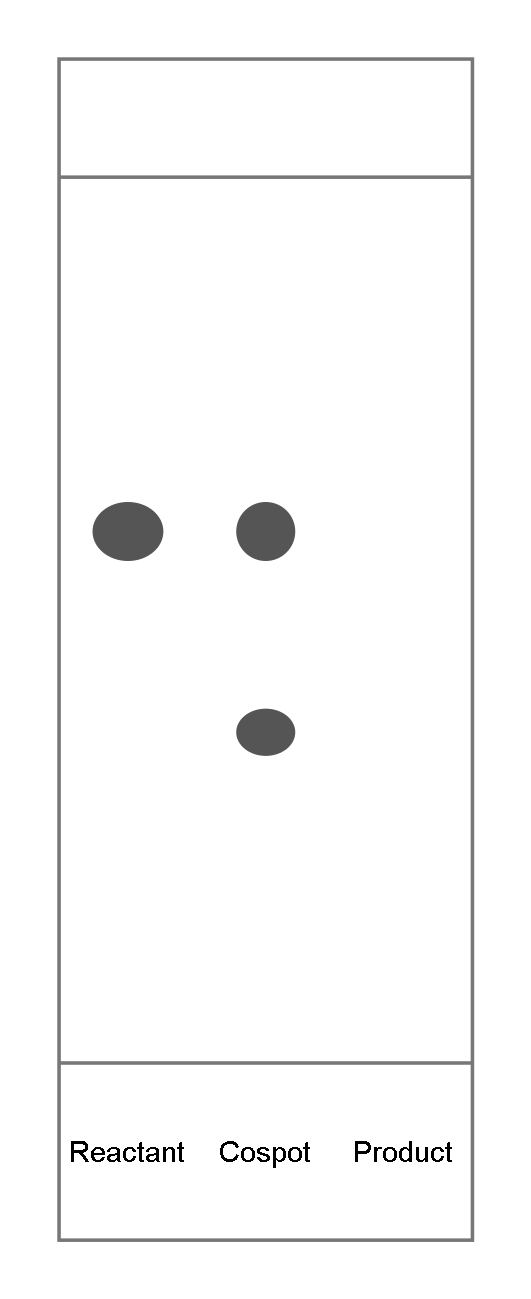
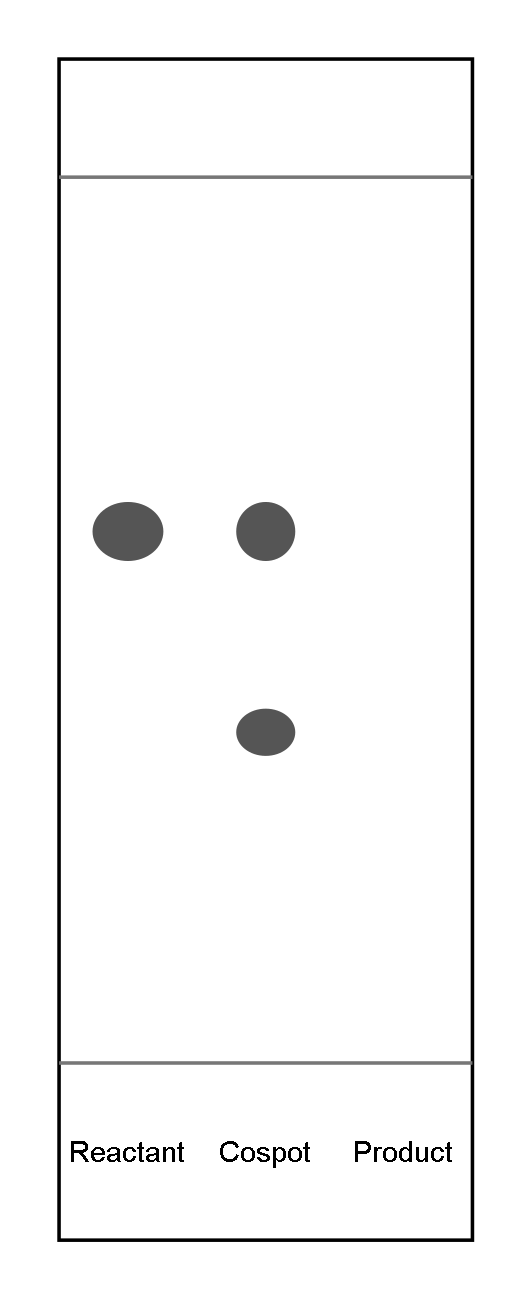
Changed outline colour

Changed region(s): [[0.8738, 0.0308, 0.904, 0.9546], [0.0904, 0.0308, 0.1205, 0.9546]]

diff --git a/TLC.py b/TLC.py
@@ -73,7 +73,7 @@ class TLC:
         elements = []
         elements.append(
             f'<rect x="5mm" y="5mm" width="{self.width}mm" height="{self.height}mm" '
-             'fill="none" stroke="#777777" stroke-width="0.3mm"/>')
+             'fill="none" stroke="#000000" stroke-width="0.3mm"/>')
 
         elements.append(
             f'<line x1="5mm" y1="{5+self.height-self.start}mm"'
